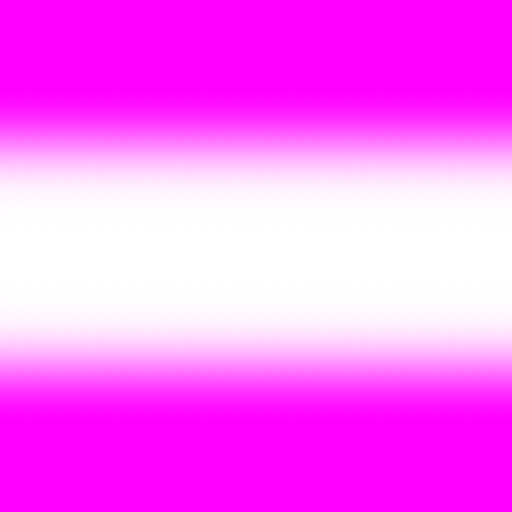
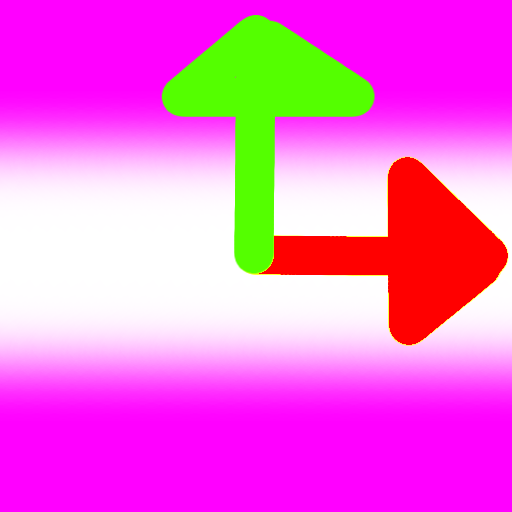
wip trails

Changed region(s): [[0.3125, 0.0312, 1.0, 0.6875]]

diff --git a/SimpleScene/Extra/STrailsRenderer.cs b/SimpleScene/Extra/STrailsRenderer.cs
@@ -13,10 +13,11 @@ namespace SimpleScene
 
         public class STrailsParameters
         {
-            public int capacity = 20;
-            public float trailWidth = 20f;
-            public float trailsEmissionInterval = 0.5f;
-            public float velocityToLengthFactor = 1f;
+            public int capacity = 2000;
+            public float trailWidth = 5f;
+            public float trailsEmissionInterval = 0.05f;
+            public float velocityToLengthFactor = 0.2f;
+            public float trailLifetime = 20f;
             public float trailCutoffVelocity = 0.1f;
             public string textureFilename = "trail_debug.png";
             //public string textureFilename = "trail.png";
@@ -35,7 +36,7 @@ namespace SimpleScene
             STrailsParameters trailsParams = null)
             : base(new STrailsData(positonFunc, velocityFunc, fwdDirFunc, 
                 trailsParams ?? new STrailsParameters()),
-                SSTexturedQuad.DoubleFaceInstance, _defaultUsageHint)
+                SSTexturedQuad.DoubleFaceCrossBarInstance, _defaultUsageHint)
         {
             trailsParams = trailsData.trailsParams;
             var tex = SSAssetManager.GetInstance<SSTextureWithAlpha>(trailsParams.textureFilename);
@@ -61,8 +62,10 @@ namespace SimpleScene
 
             protected byte _headSegmentIdx = STrailsSegment.NotConnected;
             protected byte _tailSegmentIdx = STrailsSegment.NotConnected;
-            protected readonly  byte[] _nextSegmentData = null;
-            protected readonly  byte[] _prevSegmentData = null;
+            protected readonly byte[] _nextSegmentData = null;
+            protected readonly byte[] _prevSegmentData = null;
+            protected readonly Vector3[] _motionVecs = null;
+            protected readonly STrailUpdater _updater;
             //protected readonly SSParticleEmitter _headEmitter;
 
             public STrailsData(PositionFunc positionFunc, VelocityFunc velocityFunc, DirFunc fwdDirFunc,
@@ -73,10 +76,19 @@ namespace SimpleScene
 
                 _nextSegmentData = new byte[capacity];
                 _prevSegmentData = new byte[capacity];
+                _motionVecs = new Vector3[capacity];
                 //_headEmitter = new TrailEmitter(positionFunc, velocityFunc, trailParams);
 
                 addEmitter(new STrailsEmitter(trailsParams, positionFunc, velocityFunc, fwdDirFunc));
-                addEffector(new SRadialBillboardOrientator());
+
+                _updater = new STrailUpdater(trailsParams);
+                addEffector(_updater);
+            }
+
+            public override void updateCamera (ref Matrix4 model, ref Matrix4 view, ref Matrix4 projection)
+            {
+                var modelView = model * view;
+                _updater.updateModelView(ref modelView);
             }
 
             protected override SSParticle createNewParticle ()
@@ -91,6 +103,7 @@ namespace SimpleScene
                 var ts = (STrailsSegment)p;
                 ts.nextSegmentIdx = _nextSegmentData [idx];
                 ts.prevSegmentIdx = _prevSegmentData [idx];
+                ts.motionVec = _motionVecs [idx];
             }
 
             protected override void writeParticle (int idx, SSParticle p)
@@ -122,6 +135,9 @@ namespace SimpleScene
                 if (_prevSegmentData != null) {
                     _prevSegmentData [idx] = ts.prevSegmentIdx;
                 }
+                if (_motionVecs != null) {
+                    _motionVecs [idx] = ts.motionVec;
+                }
             }
 
 
@@ -150,6 +166,7 @@ namespace SimpleScene
             {
                 public const byte NotConnected = 255;
 
+                public Vector3 motionVec = -Vector3.UnitZ;
                 public byte prevSegmentIdx = NotConnected;
                 public byte nextSegmentIdx = NotConnected;
             }
@@ -169,13 +186,19 @@ namespace SimpleScene
                     this.posFunc = posFunc;
                     this.velFunc = velFunc;
                     this.fwdDirFunc = fwdDirFunc;
+
+                    base.life = tParams.trailLifetime;
+                    base.emissionInterval = tParams.trailsEmissionInterval;
+                    base.velocity = Vector3.Zero;
+                    base.color = new Color4(1f, 1f, 1f, 0.3f);
                 }
 
+                #if false
                 protected override void emitParticles (int particleCount, ParticleFactory factory, ReceiverHandler receiver)
                 {
                     // don't emit particles when the motion is slow/wrong direction relative to "forward"
                     Vector3 vel = velFunc();
-                    Vector3 dir = fwdDirFunc();
+                    Vector3 dir = fwdDirFunc();gim
                     float relVelocity = Vector3.Dot(vel, dir);
                     if (relVelocity < trailParams.trailCutoffVelocity) {
                         return;
@@ -183,18 +206,83 @@ namespace SimpleScene
 
                     base.emitParticles(particleCount, factory, receiver);
                 }
+                #endif
 
                 protected override void configureNewParticle (SSParticle p)
                 {
                     base.configureNewParticle(p);
 
-                    var velocity = this.velFunc();
 
-                    p.pos = posFunc();
-                    p.componentScale = new Vector3 (
+                    var ts = (STrailsSegment)p;
+                    var velocity = this.velFunc();
+                    //var dir 
+
+                    ts.billboardXY = true;
+                    ts.pos = posFunc();
+                    ts.motionVec = velocity;
+                    ts.componentScale.Y = trailParams.trailWidth;
+
+                    /*
+                    ts.componentScale = new Vector3 (
                         trailParams.velocityToLengthFactor * velocity.LengthFast,
                         trailParams.trailWidth,
                         1f);
+                        */
+
+                    #if false
+                    //var dir = -1f * fwdDirFunc().Normalized(); 
+                    var dir = velocity.Normalized();
+
+                    float theta = (float)Math.Atan2(dir.Y, dir.X);
+                    float xy = (float)Math.Sqrt(dir.X * dir.X * dir.Y * dir.Y);
+                    float phi = (float)Math.Atan2(dir.Z, xy);
+
+                    //ts.orientation.X = -(float)Math.PI / 2f;
+                    //ts.orientation.Z = theta;
+                    //ts.orientation.Y = phi;
+
+                    //ts.orientation.X = 0f;
+                    //ts.orientation.Y = -phi;
+                    ts.orientation.Z = theta;
+                    #endif
+
+                    Console.WriteLine("orientation =  " + ts.orientation);
+
+                }
+            }
+
+            public class STrailUpdater : SSParticleEffector
+            {
+                //protected Vector3 _cameraX = Vector3.UnitX;
+                //protected Vector3 _cameraY = Vector3.UnitY;
+                protected Matrix4 _modelView = Matrix4.Identity;
+
+                public STrailsParameters trailsParams;
+
+                public STrailUpdater(STrailsParameters trailParams)
+                {
+                    this.trailsParams = trailParams;
+                }
+
+                public void updateModelView(ref Matrix4 modelView)
+                {
+                    _modelView = modelView;
+                    //_cameraX = Vector3.Transform(Vector3.UnitX, modelView);
+                    //_cameraY = Vector3.Transform(Vector3.UnitY, modelView);
+                }
+
+                protected override void effectParticle (SSParticle particle, float deltaT)
+                {
+                    var ts = (STrailsSegment)particle;
+
+                    Vector3 centerView = Vector3.Transform(ts.pos, _modelView);
+                    Vector3 endView = Vector3.Transform(ts.pos + ts.motionVec * trailsParams.velocityToLengthFactor, _modelView);
+                    Vector3 motionView = endView - centerView;
+                    float motionViewXy = motionView.Xy.LengthFast;
+
+                    ts.componentScale.X = motionViewXy; // * trailsParams.velocityToLengthFactor;
+                    ts.orientation.Z = (float)Math.Atan2(motionView.Y, motionView.X);
+                    //ts.orientation.Y = (float)Math.Atan2(motionView.Z, motionViewXy);
                 }
             }
         }

diff --git a/SimpleScene/Meshes/Shapes/SSTexturedQuad.cs b/SimpleScene/Meshes/Shapes/SSTexturedQuad.cs
@@ -6,11 +6,13 @@ namespace SimpleScene
     {
 		public static readonly SSVertexBuffer<SSVertex_PosTex> SingleFaceInstance;
 		public static readonly SSVertexBuffer<SSVertex_PosTex> DoubleFaceInstance;
+        public static readonly SSVertexBuffer<SSVertex_PosTex> DoubleFaceCrossBarInstance;
 
 		static SSTexturedQuad()
 		{
 			SingleFaceInstance = new SSVertexBuffer<SSVertex_PosTex>(c_singleFaceVertices);
 			DoubleFaceInstance = new SSVertexBuffer<SSVertex_PosTex>(c_doubleFaceVertices);
+            DoubleFaceCrossBarInstance = new SSVertexBuffer<SSVertex_PosTex> (c_doubleFaceCrossBarVertices);
 		}
 
 		public static readonly SSVertex_PosTex[] c_singleFaceVertices = {
@@ -42,6 +44,43 @@ namespace SimpleScene
 			new SSVertex_PosTex(-.5f, +.5f, 0f, 0f, 0f),
 			new SSVertex_PosTex(+.5f, +.5f, 0f, 1f, 0f),
 		};
+
+        public static readonly SSVertex_PosTex[] c_doubleFaceCrossBarVertices = {
+            // CCW quad; no indexing
+            new SSVertex_PosTex(-.5f, -.5f, 0f, 0f, 1f),
+            new SSVertex_PosTex(+.5f, -.5f, 0f, 1f, 1f),
+            new SSVertex_PosTex(+.5f, +.5f, 0f, 1f, 0f),
+
+            new SSVertex_PosTex(-.5f, -.5f, 0f, 0f, 1f),
+            new SSVertex_PosTex(+.5f, +.5f, 0f, 1f, 0f),
+            new SSVertex_PosTex(-.5f, +.5f, 0f, 0f, 0f),
+
+            new SSVertex_PosTex(-.5f, -.5f, 0f, 0f, 1f),
+            new SSVertex_PosTex(+.5f, +.5f, 0f, 1f, 0f),
+            new SSVertex_PosTex(+.5f, -.5f, 0f, 1f, 1f),
+
+            new SSVertex_PosTex(-.5f, -.5f, 0f, 0f, 1f),
+            new SSVertex_PosTex(-.5f, +.5f, 0f, 0f, 0f),
+            new SSVertex_PosTex(+.5f, +.5f, 0f, 1f, 0f),
+
+            // ----- 
+
+            new SSVertex_PosTex(-.5f, 0f, -.5f, 0f, 1f),
+            new SSVertex_PosTex(+.5f, 0f, -.5f, 1f, 1f),
+            new SSVertex_PosTex(+.5f, 0f, +.5f, 1f, 0f),
+
+            new SSVertex_PosTex(-.5f, 0f, -.5f, 0f, 1f),
+            new SSVertex_PosTex(+.5f, 0f, +.5f, 1f, 0f),
+            new SSVertex_PosTex(-.5f, 0f, +.5f, 0f, 0f),
+
+            new SSVertex_PosTex(-.5f, 0f, -.5f, 0f, 1f),
+            new SSVertex_PosTex(+.5f, 0f, +.5f, 1f, 0f),
+            new SSVertex_PosTex(+.5f, 0f, -.5f, 1f, 1f),
+
+            new SSVertex_PosTex(-.5f, 0f, -.5f, 0f, 1f),
+            new SSVertex_PosTex(-.5f, 0f, +.5f, 0f, 0f),
+            new SSVertex_PosTex(+.5f, 0f, +.5f, 1f, 0f),
+        };
     }
 }
 

diff --git a/SimpleScene/Util/OpenTKHelper.cs b/SimpleScene/Util/OpenTKHelper.cs
@@ -85,10 +85,12 @@ namespace SimpleScene
         /// <summary>
         /// Quaterionon needed to transform direction dir1 into direction dir2
         /// </summary>
-        public static Quaternion neededRotation(Vector3 dir1, Vector3 dir2)
+        public static Quaternion neededRotation(Vector3 dir1, Vector3 dir2, bool normalize = true)
         {
-            dir1.Normalize();
-            dir2.Normalize();
+            if (normalize) {
+                dir1.Normalize();
+                dir2.Normalize();
+            }
             Vector3 crossNormalized = Vector3.Cross(dir1, dir2).Normalized();
             if (float.IsNaN(crossNormalized.X)) {
                 // this means dir1 is parallel to dir2. we can do it less cryptically but why add processing?
